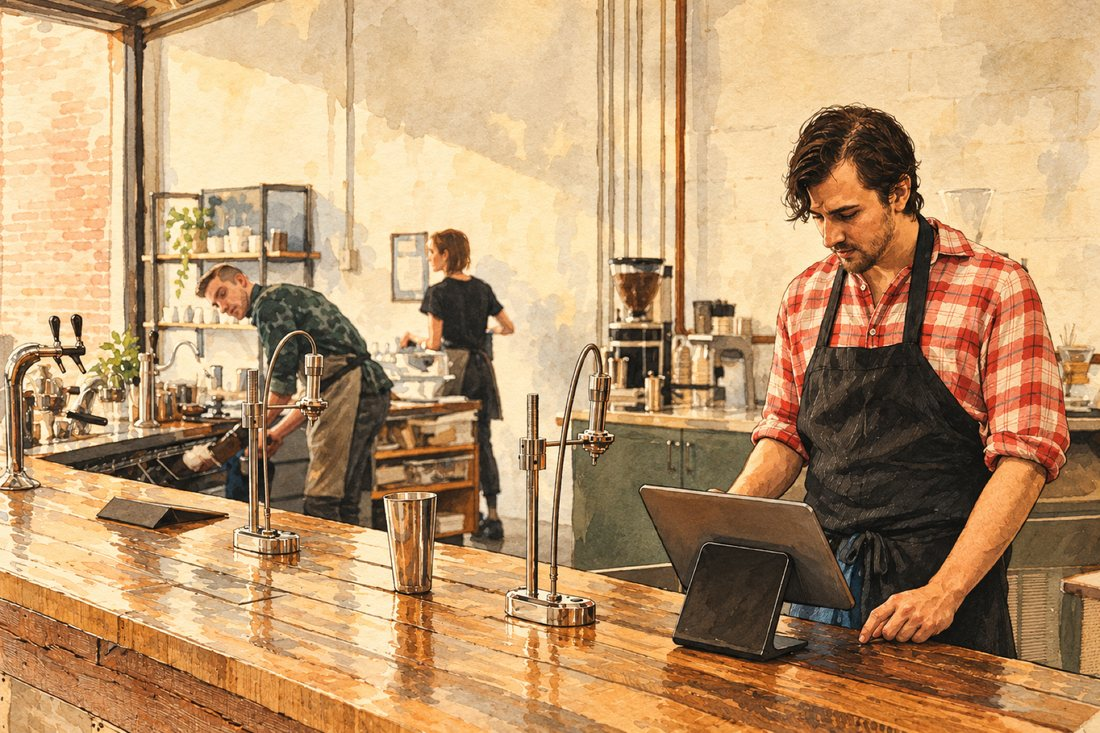
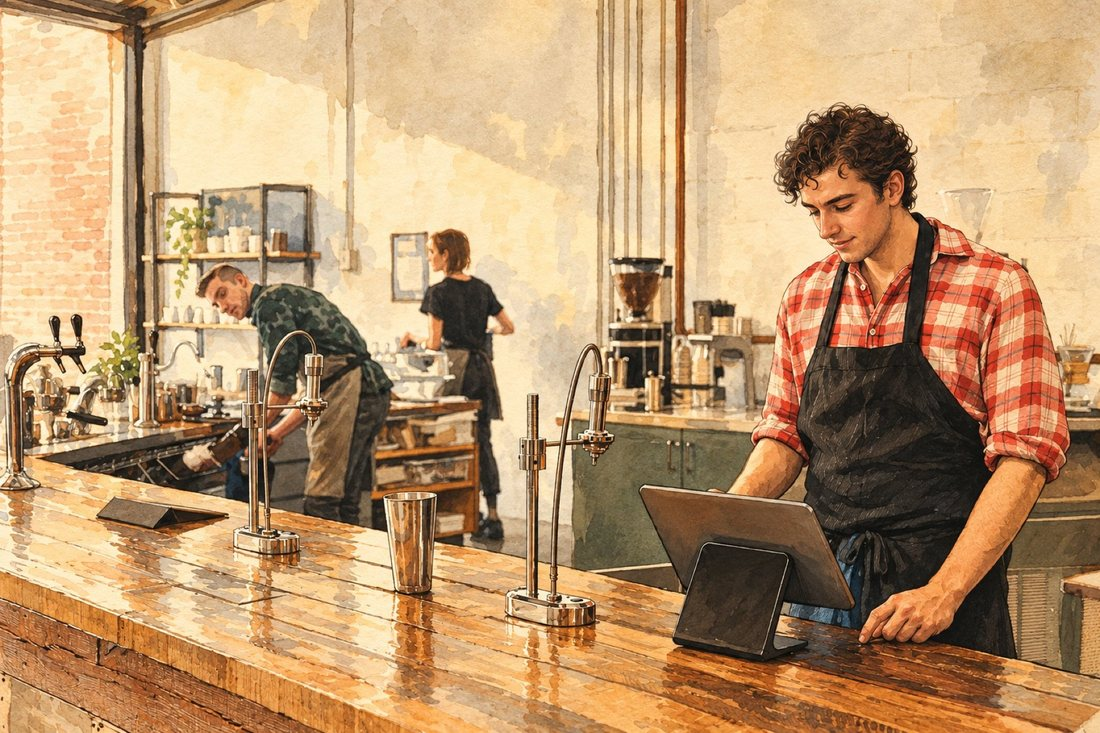
Exploration 49: the forecast's man at the counter given a supplied likeness

Changed region(s): [[0.68, 0.1201, 0.8655, 0.4502]]

diff --git a/explorations/49-ink/NOTES.md b/explorations/49-ink/NOTES.md
@@ -26,6 +26,8 @@ The illustrations were made with Codex's image generation tool (`image_gen`, its
 
 They are AI-generated, which is a different promise from a photograph or a commissioned drawing.
 Hands and faces were checked at full size; none looked wrong.
+At Rex's request the man at the counter in `forecast` was given a real person's likeness, from a photograph Rex supplied; only his head was regenerated and pasted back, so the rest of the drawing is unchanged.
+That person's agreement is needed before this ships.
 Generated at a smaller size and enlarged to 1800 and 1600px wide, so they are soft up close.
 Before anything like this ships, an illustrator drawing from one real restaurant is the better source.
 
